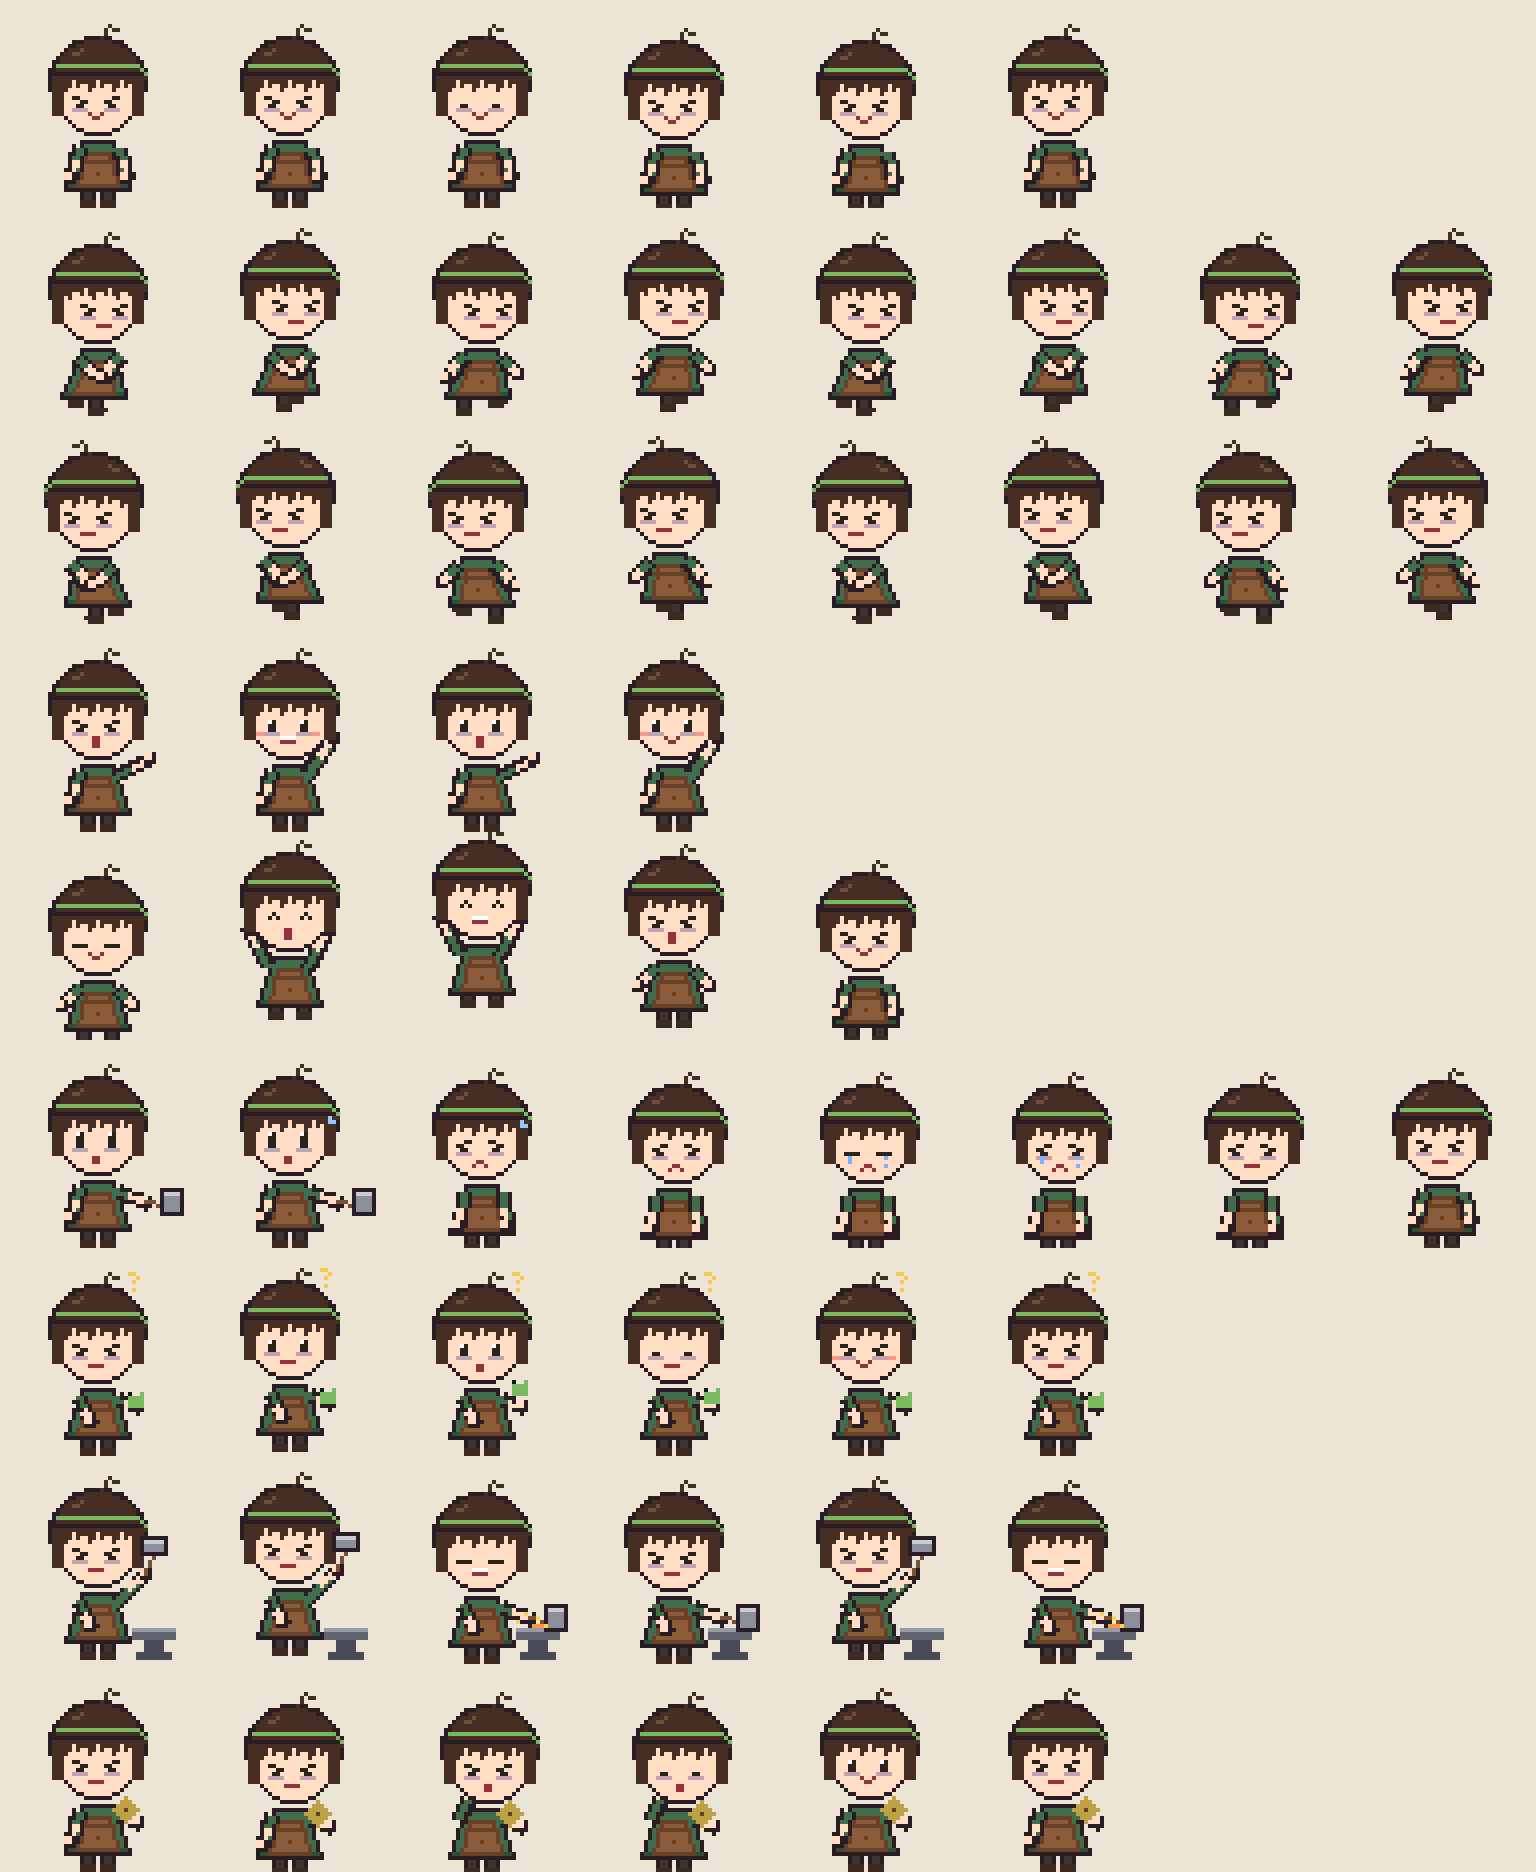
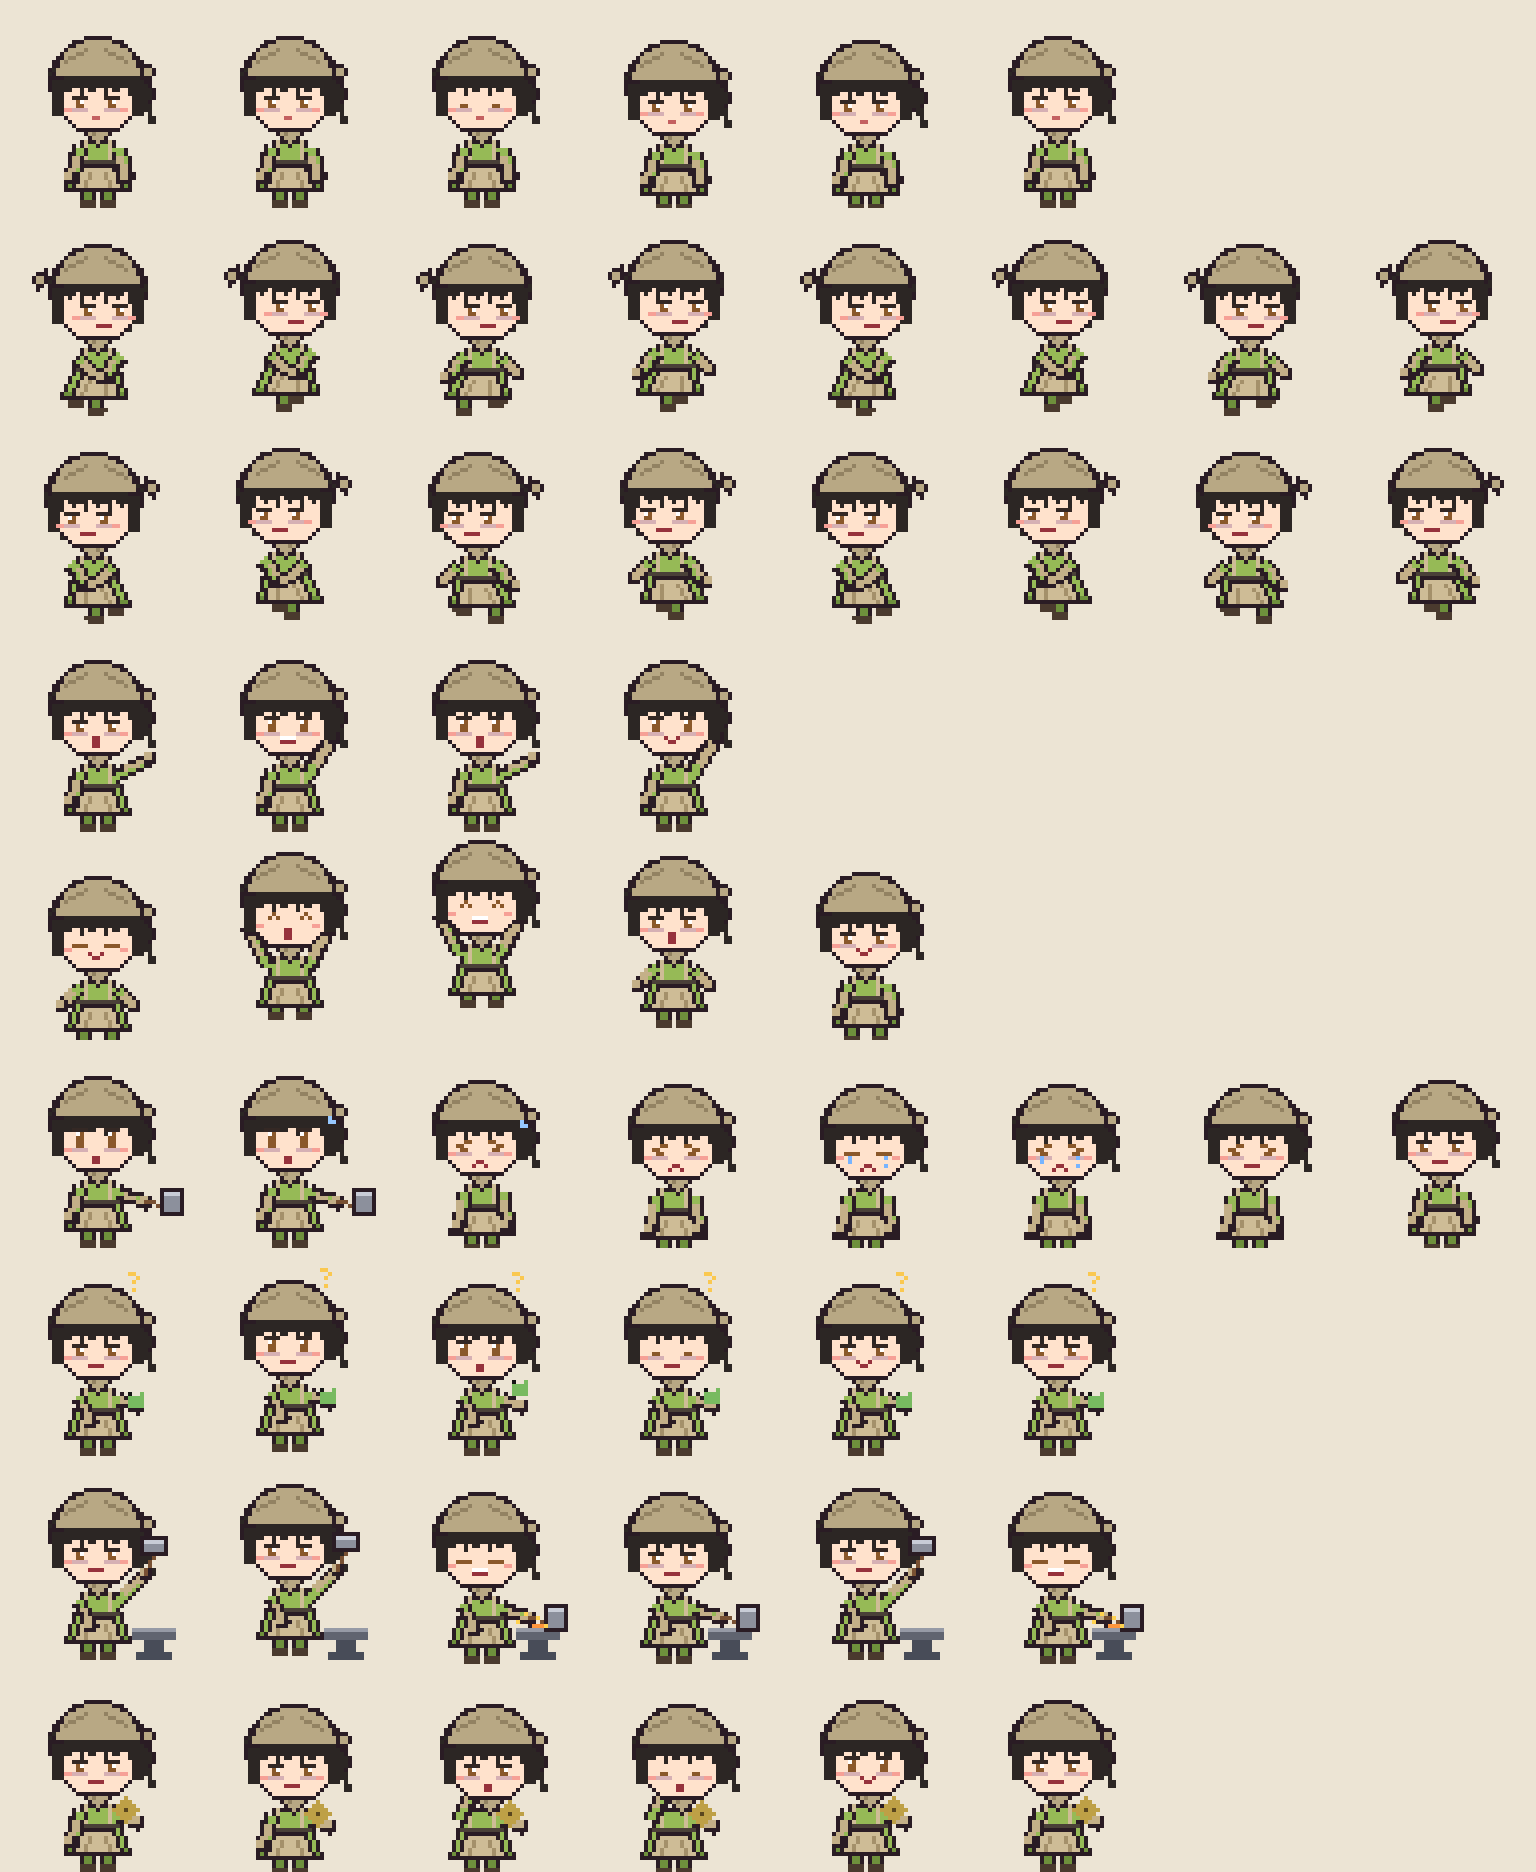
小竹像素造型改依官方立繪：卡其頭巾與領巾、淺綠上衣、長手套、長圍裙
Claude-Session: https://claude.ai/code/session_014Ug96dnPv181rpAqSNBU9C

diff --git a/mortal-pets/tools/build_sprites.py b/mortal-pets/tools/build_sprites.py
@@ -58,24 +58,30 @@ CHARACTERS = {
     "xiaozhu": {
         "displayName": "小竹",
         "description": "崆峒鐵拳門的郁竹，人稱「裂骨魔」：身形嬌小、力大無窮、熬夜打鐵做玩具。眼神兇是因為近視又沒睡。（活俠傳同人）",
-        "hair": (70, 46, 36, 255),
-        "hair_hi": (112, 78, 58, 255),
-        "skin": (255, 222, 196, 255),
-        "skin_sh": (236, 184, 156, 255),
-        "eye": (40, 36, 30, 255),
-        "cloth": (64, 110, 74, 255),
-        "cloth_sh": (44, 80, 54, 255),
-        "accent": (140, 92, 58, 255),  # 皮圍裙
-        "accent_sh": (104, 66, 40, 255),
-        "sleeve": (64, 110, 74, 255),
-        "shoe": (58, 42, 34, 255),
-        "leg": (60, 52, 46, 255),  # 綁腿
-        "blush": (250, 150, 140, 255),
-        "band": (120, 186, 96, 255),  # 竹青色頭帶
-        "bags": (196, 160, 178, 255),  # 黑眼圈
+        # 依官方立繪：卡其頭巾與領巾、淺綠短袖上衣、長工作手套、卡其長圍裙
+        "hair": (44, 38, 36, 255),
+        "hair_hi": (84, 74, 68, 255),
+        "skin": (255, 226, 204, 255),
+        "skin_sh": (238, 190, 166, 255),
+        "eye": (138, 88, 42, 255),  # 琥珀色眼睛
+        "lid": (52, 40, 36, 255),
+        "cloth": (150, 186, 86, 255),
+        "cloth_sh": (110, 144, 60, 255),
+        "accent": (206, 188, 150, 255),  # 卡其長圍裙
+        "accent_sh": (164, 144, 106, 255),
+        "sleeve": (150, 186, 86, 255),
+        "glove": (196, 176, 136, 255),  # 長工作手套
+        "kerchief": (184, 168, 132, 255),  # 頭巾、領巾
+        "kerchief_sh": (146, 130, 98, 255),
+        "belt": (74, 64, 56, 255),
+        "shoe": (74, 58, 46, 255),
+        "leg": (110, 144, 60, 255),
+        "blush": (246, 160, 150, 255),
+        "bags": (214, 176, 180, 255),  # 黑眼圈
+        "blush_always": True,
         "long_hair": False,
         "height_drop": 2,
-        "default_eyes": "squint",
+        "default_eyes": "drowsy",
     },
 }
 
@@ -142,6 +148,8 @@ def draw_frame(cid, pose):
     face_r = pose["facing"] == "right"
     look = 2 if face_r else 0
     eyes = pose["eyes"] or c["default_eyes"]
+    if eyes == "squint" and c["default_eyes"] == "drowsy":
+        eyes = "drowsy"  # 小竹的「兇」其實是睏
 
     hx = 24 + dx + pose["tilt"]  # 頭中心
     hy = 19 + dy
@@ -160,6 +168,10 @@ def draw_frame(cid, pose):
         p.rect(hx - 2, hy - 15, hx - 1, hy - 14, c["hair_hi"])
     else:
         p.ell(hx - 12, hy - 12, hx + 12, hy + 9, c["hair"], OUTLINE)
+        # 腦後隨手紮起的一小撮頭髮
+        tx = hx + 9 - (5 if face_r else 0) + sway
+        p.ell(tx, hy - 1, tx + 5, hy + 5, c["hair"], OUTLINE)
+        p.line([(tx + 3, hy + 5), (tx + 4, hy + 9)], c["hair"], 2)
 
     # 腿
     legs = pose["legs"]
@@ -206,11 +218,14 @@ def draw_frame(cid, pose):
         p.px(30 + dx, 40 + dy, c["accent"])  # 腰帶垂穗
         p.px(30 + dx, 41 + dy, c["accent"])
     else:
-        # 皮圍裙與腰帶
-        p.poly([(21 + dx, 36 + dy), (27 + dx, 36 + dy), (29 + dx + flare, 44 + dy), (19 + dx + flare, 44 + dy)],
-               c["accent"], c["accent_sh"])
-        p.rect(20 + dx, 38 + dy, 28 + dx, 38 + dy, c["accent_sh"])
-        p.px(24 + dx, 41 + dy, c["accent_sh"])
+        # 圍裙吊帶、深色腰帶、卡其長圍裙
+        p.line([(21 + dx, 33 + dy), (21 + dx, 38 + dy)], c["accent"])
+        p.line([(27 + dx, 33 + dy), (27 + dx, 38 + dy)], c["accent"])
+        p.poly([(20 + dx, 39 + dy), (28 + dx, 39 + dy), (30 + dx + flare, 45 + dy), (18 + dx + flare, 45 + dy)],
+               c["accent"], OUTLINE)
+        p.line([(22 + dx, 41 + dy), (21 + dx + flare, 44 + dy)], c["accent_sh"])
+        p.line([(26 + dx, 41 + dy), (27 + dx + flare, 44 + dy)], c["accent_sh"])
+        p.rect(19 + dx, 38 + dy, 29 + dx, 38 + dy, c["belt"])
 
     # 手臂
     al, ar = pose["arms"]
@@ -221,11 +236,13 @@ def draw_frame(cid, pose):
         p.line([(sx, sy), (ex, ey)], OUTLINE, 4)
         p.line([(sx, sy), (ex, ey)], c["sleeve"], 2)
         p.px(ex, ey, OUTLINE)
-        if cid == "xiaozhu":  # 袖子捲起，前臂露出
-            mx, my = (sx + ex) // 2, (sy + ey) // 2
-            p.line([(mx, my), (ex, ey)], c["skin"], 2)
+        hand = c["skin"]
+        if "glove" in c:  # 短袖，前臂到手掌是長手套
+            mx, my = (sx * 2 + ex) // 3, (sy * 2 + ey) // 3
+            p.line([(mx, my), (ex, ey)], c["glove"], 2)
+            hand = c["glove"]
         p.rect(ex - 1, ey - 1, ex + 1, ey + 1, OUTLINE)
-        p.rect(ex - 1, ey - 1, ex, ey, c["skin"])
+        p.rect(ex - 1, ey - 1, ex, ey, hand)
         return ex, ey
 
     hand_l = arm(sx_l, al, 0)
@@ -255,11 +272,18 @@ def draw_frame(cid, pose):
         p.px(bx, by, (255, 214, 90, 255))
         p.px(bx + 2, by + 2, c["accent_sh"])
     else:
-        # 竹青頭帶與呆毛
-        p.line([(hx - 10, hy - 5), (hx + 10, hy - 5)], c["band"], 1)
-        p.px(hx + 11, hy - 4, c["band"])
-        p.px(hx + 12, hy - 3, c["band"])
-        p.line([(hx + 1, hy - 12), (hx + 3, hy - 15), (hx + 5, hy - 14)], hair)
+        # 卡其頭巾包住頭頂，結打在腦後
+        p.d.chord([hx - 11, hy - 12, hx + 11, hy + 9], 180, 360, fill=c["kerchief"], outline=OUTLINE)
+        p.line([(hx - 8, hy - 6), (hx - 3, hy - 9)], c["kerchief_sh"])
+        p.line([(hx + 2, hy - 9), (hx + 7, hy - 6)], c["kerchief_sh"])
+        # 頭巾下露出的瀏海
+        for i, fx_ in enumerate(range(hx - 8, hx + 8, 3)):
+            p.poly([(fx_, hy - 2), (fx_ + 3, hy - 2), (fx_ + 1, hy + (2 if i % 2 else 1))], hair)
+        kx = hx - 13 if face_r else hx + 11
+        kd = -1 if face_r else 1
+        p.poly([(kx, hy - 6), (kx + 3 * kd, hy - 4), (kx + 2 * kd, hy - 1), (kx, hy - 3)], c["kerchief"], OUTLINE)
+        # 翹起的髮梢
+        p.px(hx - 11, hy - 4, hair); p.px(hx - 12, hy - 3, hair)
 
     # 五官
     ey = hy + 3
@@ -268,8 +292,11 @@ def draw_frame(cid, pose):
     white = (255, 255, 255, 255)
 
     def eye_open(x, big=False):
-        p.rect(x, ey - (1 if big else 0), x + 1, ey + 2, eye)
-        p.px(x, ey - (1 if big else 0), white)
+        top = ey - (1 if big else 0)
+        p.rect(x, top, x + 1, ey + 2, eye)
+        if "lid" in c:
+            p.line([(x - 1, top - 1), (x + 2, top - 1)], c["lid"])
+        p.px(x, top, white)
 
     if eyes in ("open", "wide"):
         eye_open(lx, eyes == "wide")
@@ -296,6 +323,11 @@ def draw_frame(cid, pose):
     elif eyes == "closed":
         p.line([(lx - 1, ey + 2), (lx + 2, ey + 2)], eye)
         p.line([(rx - 1, ey + 2), (rx + 2, ey + 2)], eye)
+    elif eyes == "drowsy":  # 眼皮半垂、琥珀色眼珠
+        for x in (lx, rx):
+            p.line([(x - 1, ey), (x + 2, ey)], c["lid"])
+            p.rect(x, ey + 1, x + 1, ey + 2, eye)
+            p.px(x + 1, ey + 1, white)
     elif eyes == "look_up":
         p.rect(lx, ey - 1, lx + 1, ey + 1, eye)
         p.rect(rx, ey - 1, rx + 1, ey + 1, eye)
@@ -313,6 +345,8 @@ def draw_frame(cid, pose):
         p.rect(mx - 1, my - 1, mx + 2, my, mouth); p.line([(mx - 1, my - 1), (mx + 2, my - 1)], white)
     elif m == "open":
         p.rect(mx, my - 1, mx + 1, my + 1, mouth)
+    elif m == "small":
+        p.line([(mx, my), (mx + 1, my)], (196, 96, 96, 255))
     elif m == "o":
         p.rect(mx, my, mx + 1, my + 1, mouth)
     elif m == "flat":
@@ -324,7 +358,11 @@ def draw_frame(cid, pose):
     elif m == "smirk":
         p.px(mx, my, mouth); p.px(mx + 1, my, mouth); p.px(mx + 2, my - 1, mouth)
 
-    if pose["blush"]:
+    if "kerchief" in c:  # 領巾
+        p.poly([(hx - 4, hy + 11), (hx + 4, hy + 11), (hx, hy + 15)], c["kerchief"], OUTLINE)
+        p.px(hx - 1, hy + 12, c["kerchief_sh"])
+
+    if pose["blush"] or c.get("blush_always"):
         p.rect(hx - 8 + look, hy + 6, hx - 7 + look, hy + 6, c["blush"])
         p.rect(hx + 6 + look, hy + 6, hx + 7 + look, hy + 6, c["blush"])
 
@@ -413,8 +451,10 @@ def poses_for(cid):
     mei = cid == "xiaomei"
     rows = {}
     # 0 idle：呼吸與眨眼
+    m0 = "smile" if mei else "small"  # 小竹平常微張著嘴、有點害羞
     rows["idle"] = [
-        P(), P(dy=0), P(eyes="blink"), P(dy=1), P(dy=1, hair_sway=1), P(),
+        P(mouth=m0), P(mouth=m0), P(eyes="blink", mouth=m0), P(dy=1, mouth=m0),
+        P(dy=1, hair_sway=1, mouth=m0), P(mouth=m0),
     ]
     # 1 running-right
     run = []
